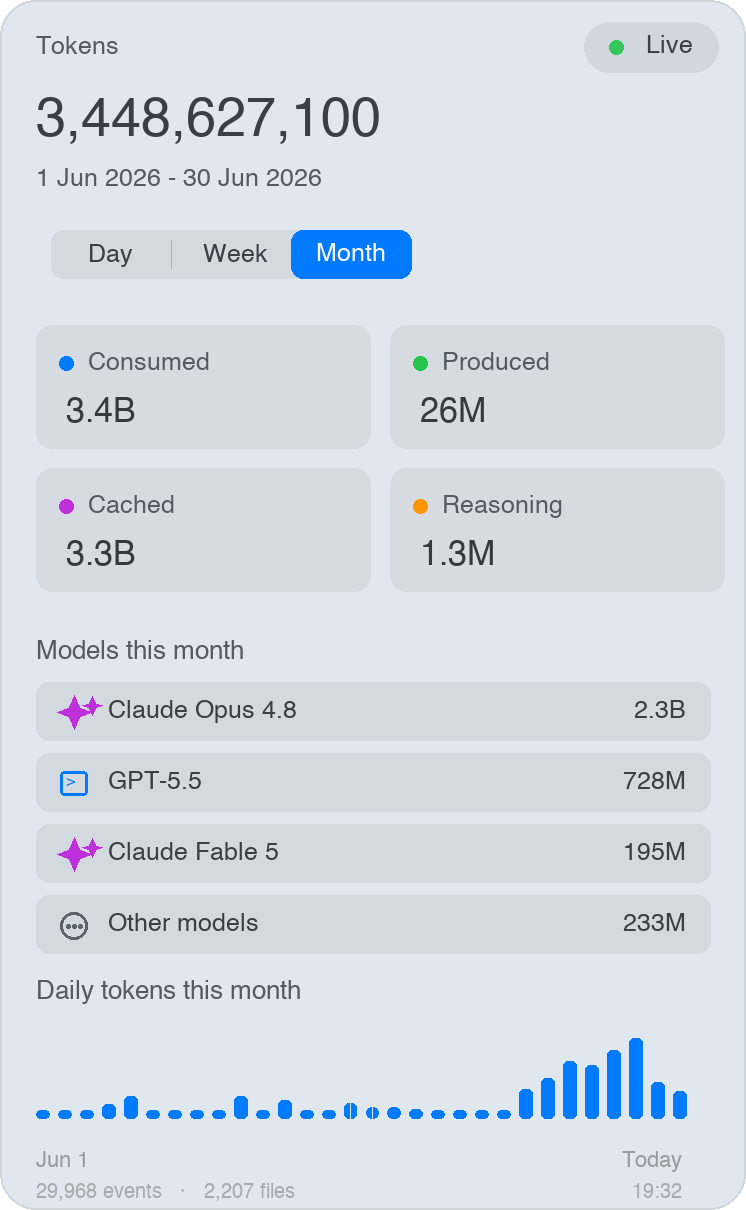
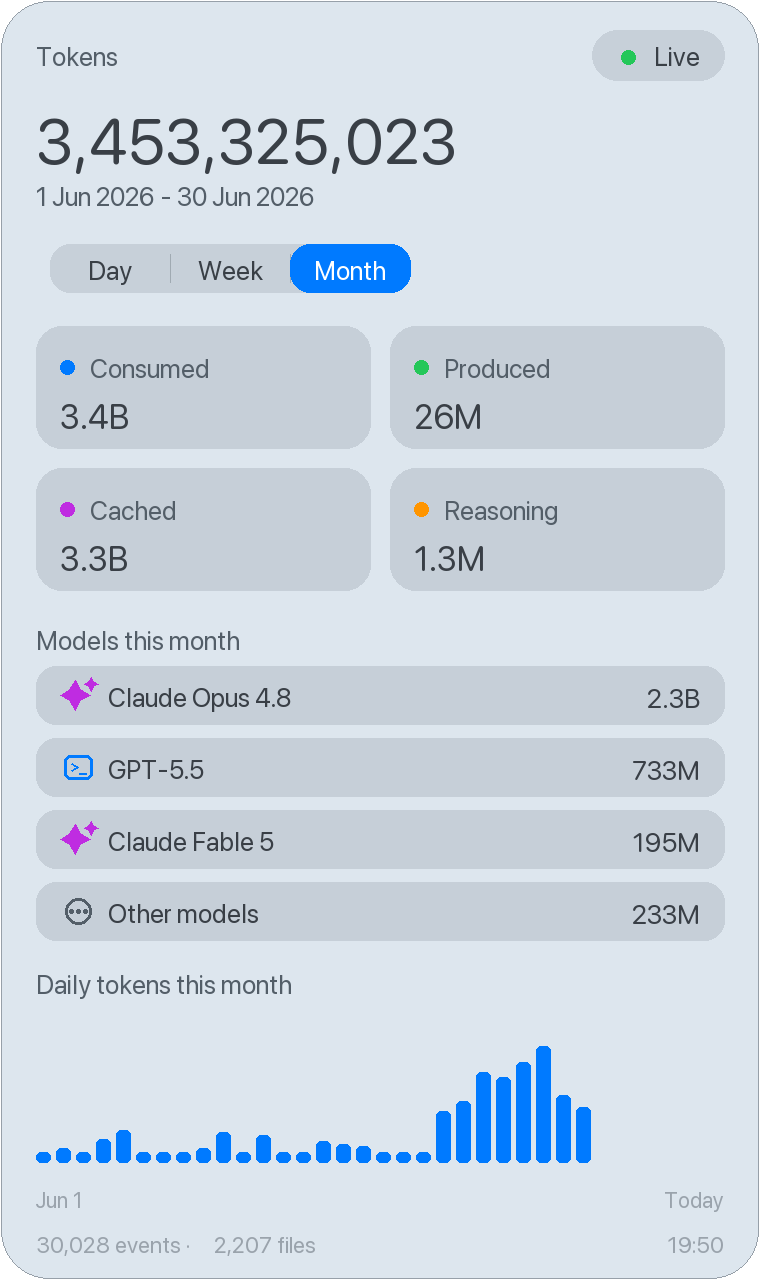
Fix Month popover visual polish

diff --git a/Sources/TokenBar/main.swift b/Sources/TokenBar/main.swift
@@ -136,6 +136,11 @@ final class PopoverVisibility: ObservableObject {
     @Published var isVisible = false
 }
 
+@MainActor
+final class PeriodSelection: ObservableObject {
+    @Published var period: PeriodKind = .month
+}
+
 final class LogIndexer: @unchecked Sendable {
     private let fileManager = FileManager.default
     private let home: URL
@@ -571,6 +576,7 @@ final class AppDelegate: NSObject, NSApplicationDelegate, NSPopoverDelegate {
     private var popover: NSPopover?
     private let monitor = TokenMonitor()
     private let visibility = PopoverVisibility()
+    private let selection = PeriodSelection()
     private var cancellables: Set<AnyCancellable> = []
 
     func applicationDidFinishLaunching(_ notification: Notification) {
@@ -604,14 +610,14 @@ final class AppDelegate: NSObject, NSApplicationDelegate, NSPopoverDelegate {
         let popover = NSPopover()
         popover.behavior = .transient
         popover.delegate = self
-        popover.contentSize = NSSize(width: 380, height: 590)
-        popover.contentViewController = NSHostingController(rootView: TokenPopoverView(monitor: monitor, visibility: visibility))
+        popover.contentSize = NSSize(width: 380, height: 640)
+        popover.contentViewController = NSHostingController(rootView: TokenPopoverView(monitor: monitor, visibility: visibility, selection: selection))
         self.popover = popover
 
-        monitor.$snapshot
+        monitor.$snapshot.combineLatest(selection.$period)
             .receive(on: DispatchQueue.main)
-            .sink { [weak self] snapshot in
-                self?.updateStatusTitle(snapshot)
+            .sink { [weak self] snapshot, period in
+                self?.updateStatusTitle(snapshot, period: period)
             }
             .store(in: &cancellables)
     }
@@ -634,9 +640,9 @@ final class AppDelegate: NSObject, NSApplicationDelegate, NSPopoverDelegate {
         visibility.isVisible = false
     }
 
-    private func updateStatusTitle(_ snapshot: TokenSnapshot) {
-        let todayTotal = snapshot.periods[.day]?.totals.total ?? 0
-        let title = snapshot.isIndexing ? "Indexing" : ShortFormat.tokens(todayTotal)
+    private func updateStatusTitle(_ snapshot: TokenSnapshot, period: PeriodKind) {
+        let periodTotal = snapshot.periods[period]?.totals.total ?? 0
+        let title = snapshot.isIndexing ? "Indexing" : ShortFormat.tokens(periodTotal)
         statusItem?.button?.title = " \(title)"
     }
 }
@@ -644,16 +650,16 @@ final class AppDelegate: NSObject, NSApplicationDelegate, NSPopoverDelegate {
 struct TokenPopoverView: View {
     @ObservedObject var monitor: TokenMonitor
     @ObservedObject var visibility: PopoverVisibility
-    @State private var period: PeriodKind = .day
+    @ObservedObject var selection: PeriodSelection
 
     var body: some View {
         let snapshot = monitor.snapshot
-        let stats = snapshot.periods[period]
+        let stats = snapshot.periods[selection.period]
 
         VStack(alignment: .leading, spacing: 16) {
             header(snapshot: snapshot, stats: stats)
 
-            Picker("", selection: $period) {
+            Picker("", selection: $selection.period) {
                 ForEach(PeriodKind.allCases) { period in
                     Text(period.rawValue).tag(period)
                 }
@@ -672,10 +678,10 @@ struct TokenPopoverView: View {
             Spacer(minLength: 0)
             footer(snapshot: snapshot)
         }
-        .padding(.top, 12)
+        .padding(.top, 20)
         .padding(.horizontal, 18)
         .padding(.bottom, 16)
-        .frame(width: 380, height: 590)
+        .frame(width: 380, height: 640)
         .background(.regularMaterial)
     }
 
@@ -874,7 +880,7 @@ struct TokenPopoverView: View {
         let formatter = DateFormatter()
         formatter.dateStyle = .medium
         formatter.timeStyle = .none
-        if period == .day {
+        if selection.period == .day {
             return formatter.string(from: interval.start)
         }
         let end = interval.end.addingTimeInterval(-1)
@@ -883,22 +889,22 @@ struct TokenPopoverView: View {
 
     private func bucketLabel(_ date: Date) -> String {
         let formatter = DateFormatter()
-        formatter.dateFormat = period == .day ? "HH:00" : "MMM d"
+        formatter.dateFormat = selection.period == .day ? "HH:00" : "MMM d"
         return formatter.string(from: date)
     }
 
     private func axisLabel(_ date: Date, isStart: Bool) -> String {
-        if period == .day {
+        if selection.period == .day {
             return isStart ? "12 AM" : "Now"
         }
 
         let formatter = DateFormatter()
-        formatter.dateFormat = period == .week ? "EEE" : "MMM d"
+        formatter.dateFormat = selection.period == .week ? "EEE" : "MMM d"
         return isStart ? formatter.string(from: date) : "Today"
     }
 
     private var chartTitle: String {
-        switch period {
+        switch selection.period {
         case .day:
             return "Hourly tokens today"
         case .week:
@@ -909,7 +915,7 @@ struct TokenPopoverView: View {
     }
 
     private var modelSectionTitle: String {
-        switch period {
+        switch selection.period {
         case .day:
             return "Models today"
         case .week:

diff --git a/README.md b/README.md
@@ -34,7 +34,7 @@ xcode-select --install
 
 ## What It Shows
 
-- Menu bar total for today
+- Menu bar total for the selected period
 - Day, week, and month filters
 - Consumed input tokens
 - Produced output tokens